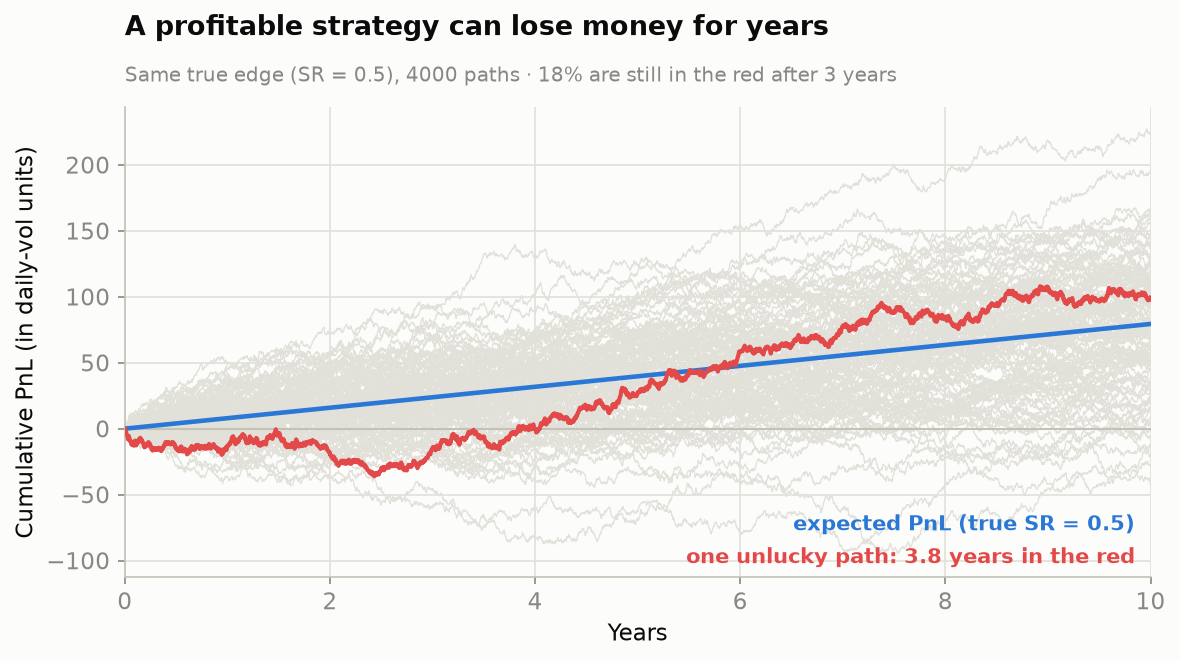
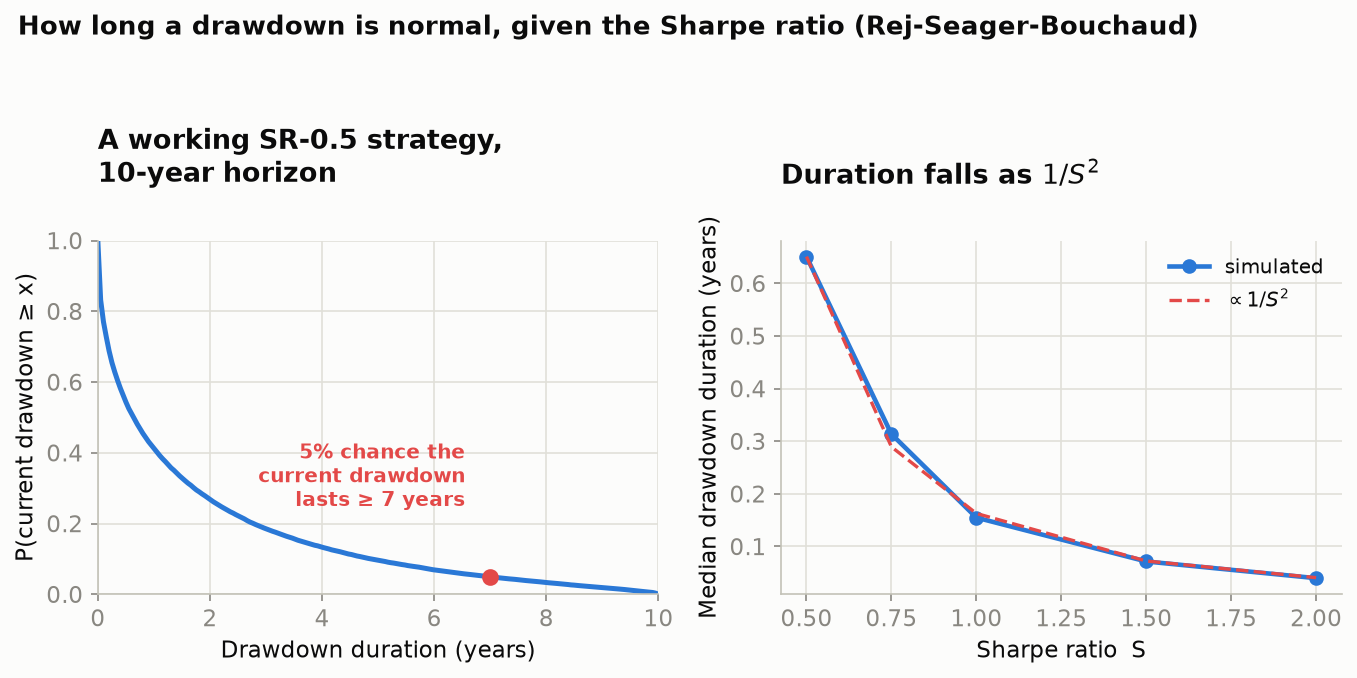
Correct the drawdown section of the report to match Bouchaud
The paper (Rej, Seager & Bouchaud) analyzes drawdown DEPTH and DURATION under a
drifting random walk with sigma normalized to 1 (so Sharpe = drift), not the
realized-Sharpe distribution. Rewrite "Illusion #2" around the two scaling laws
(depth ~ 1/S, duration ~ 1/S^2), distinguish the current drawdown (Bouchaud)
from the maximum drawdown (Magdon-Ismail), and connect 1/S^2 to the sqrt(T) wall.

Replace fig2 with a faithful figure: the survival curve of the current-drawdown
duration for SR=0.5 over 10 years (reproducing the paper's 5%-chance-of-7-years
result exactly from our library) and the 1/S^2 collapse. Update the LinkedIn post
and hook to match.

Claude-Session: https://claude.ai/code/session_01PZLxBWFPa4ExLp5ARSV6s1

diff --git a/scripts/make_figures.py b/scripts/make_figures.py
@@ -104,49 +104,69 @@ def fig1_illusion(rng):
     return frac_over_1
 
 
+def _current_drawdown_age_days(pnl):
+    """Age of the ongoing drawdown at the final step: T - last time at a new high."""
+    run_max = np.maximum.accumulate(pnl, axis=1)
+    at_high = pnl >= run_max - 1e-12
+    n = pnl.shape[1]
+    last_high = np.where(at_high, np.arange(n), -1).max(axis=1)
+    return (n - 1) - last_high
+
+
 def fig2_drawdown(rng):
-    """A genuinely profitable strategy can stay underwater for years."""
-    years = 10
-    horizon = PPY * years
-    n_paths = 4000
-    sr_true = 0.5
-    r = simulation.simulate_returns(sr_true, horizon, n_paths, rng=rng)
-    pnl = simulation.cumulative_pnl(r)
-    t = np.arange(1, horizon + 1) / PPY
+    """Bouchaud: how long and deep a drawdown is *normal* for a given Sharpe.
 
-    fig, ax = plt.subplots(figsize=(8, 4.6))
-    # background cloud of sample paths
-    for i in range(0, 120):
-        ax.plot(t, pnl[i], color=GRID, lw=0.6, zorder=1)
-    # theoretical drift
-    drift = sr_true / np.sqrt(PPY) * np.arange(1, horizon + 1)
-    ax.plot(t, drift, color=BLUE, lw=2.2, zorder=3, label="expected PnL")
-    # highlight a genuinely-positive path that stays negative for years
-    underwater_len = np.array(
-        [np.argmax(pnl[i] > 0) if np.any(pnl[i] > 0) else horizon for i in range(500)]
+    Left: survival curve of the current drawdown's duration (SR = 0.5, 10 years).
+    Right: the duration ~ 1/S^2 scaling law collapses onto a constant when scaled.
+    """
+    # --- left panel: duration distribution for SR = 0.5 over 10 years -------
+    horizon = PPY * 10
+    pnl = simulation.cumulative_pnl(
+        simulation.simulate_returns(0.5, horizon, 40_000, rng=rng)
     )
-    worst = int(np.argmax(underwater_len))
-    years_neg = underwater_len[worst] / PPY
-    ax.plot(t, pnl[worst], color=RED, lw=2.0, zorder=4)
-    ax.axhline(0, color=BASELINE, lw=1.0)
-    ax.text(0.985, 0.10, "expected PnL (true SR = 0.5)", transform=ax.transAxes,
-            color=BLUE, ha="right", fontsize=10, fontweight="bold")
-    ax.text(0.985, 0.03, f"one unlucky path: {years_neg:.1f} years in the red",
-            transform=ax.transAxes, color=RED, ha="right", fontsize=10,
-            fontweight="bold")
+    age_yr = _current_drawdown_age_days(pnl) / PPY
+    grid = np.linspace(0, 10, 200)
+    survival = np.array([(age_yr >= g).mean() for g in grid])
+    p7 = float((age_yr >= 7).mean())
 
-    frac_neg_3y = float(np.mean(pnl[:, PPY * 3 - 1] < 0))
-    _title(
-        ax,
-        "A profitable strategy can lose money for years",
-        f"Same true edge (SR = 0.5), 4000 paths · {frac_neg_3y:.0%} are still in the "
-        "red after 3 years",
+    fig, axes = plt.subplots(1, 2, figsize=(9.2, 4.4))
+    ax = axes[0]
+    ax.plot(grid, survival, color=BLUE, lw=2.4)
+    ax.plot([7], [p7], "o", color=RED, ms=7, zorder=5)
+    ax.annotate(f"{p7:.0%} chance the\ncurrent drawdown\nlasts ≥ 7 years",
+                (7, p7), textcoords="offset points", xytext=(-12, 34),
+                ha="right", color=RED, fontsize=9.5, fontweight="bold")
+    ax.set_xlabel("Drawdown duration (years)")
+    ax.set_ylabel("P(current drawdown ≥ x)")
+    ax.set_xlim(0, 10)
+    ax.set_ylim(0, 1)
+    _title(ax, "A working SR-0.5 strategy,\n10-year horizon", None)
+
+    # --- right panel: duration ~ 1/S^2 scaling ------------------------------
+    long_h = PPY * 40
+    s_grid = [0.5, 0.75, 1.0, 1.5, 2.0]
+    med_dur = []
+    for s in s_grid:
+        p = simulation.cumulative_pnl(
+            simulation.simulate_returns(s, long_h, 4000, rng=rng)
+        )
+        med_dur.append(np.median(_current_drawdown_age_days(p)) / PPY)
+    med_dur = np.array(med_dur)
+    ax = axes[1]
+    ax.plot(s_grid, med_dur, "o-", color=BLUE, lw=2.2, ms=6, label="simulated")
+    ref = med_dur[0] * (s_grid[0] ** 2) / np.array(s_grid) ** 2
+    ax.plot(s_grid, ref, color=RED, lw=1.6, ls="--", label="$\\propto 1/S^2$")
+    ax.set_xlabel("Sharpe ratio  S")
+    ax.set_ylabel("Median drawdown duration (years)")
+    ax.legend(frameon=False, fontsize=9.5)
+    _title(ax, "Duration falls as $1/S^2$", None)
+
+    fig.suptitle(
+        "How long a drawdown is normal, given the Sharpe ratio (Rej-Seager-Bouchaud)",
+        x=0.02, ha="left", fontsize=12.5, fontweight="bold", y=1.02,
     )
-    ax.set_xlabel("Years")
-    ax.set_ylabel("Cumulative PnL (in daily-vol units)")
-    ax.set_xlim(0, years)
     _save(fig, "fig2_drawdown.png")
-    return frac_neg_3y, years_neg
+    return p7, med_dur[0] * s_grid[0] ** 2
 
 
 def fig3_mintrl():
@@ -220,8 +240,8 @@ def main():
     f4 = fig4_overfitting(rng)
     print("\n--- headline numbers for the article ---")
     print(f"zero-edge paths above SR=1 in one year: {f1:.1%}")
-    print(f"good strategies still in the red after 3 years: {f2[0]:.1%}")
-    print(f"longest red streak in sample: {f2[1]:.1f} years")
+    print(f"P(current drawdown >= 7yr) at SR=0.5, 10yr: {f2[0]:.1%}")
+    print(f"duration x S^2 (approx constant): {f2[1]:.2f}")
     print(f"years to trust SR: {f3}")
     print(f"best-of-N zero-edge SR: {f4}")
 

diff --git a/docs/report/substack-article.md b/docs/report/substack-article.md
@@ -1,6 +1,6 @@
 # The Sharpe Ratio Illusion
 
-### A coin-flip strategy can walk in with a Sharpe of 2. A genuinely great one can lose money for four years straight. It's the same fact, seen from two sides.
+### A coin-flip strategy can walk in with a Sharpe of 2. A genuinely great one can sit in a drawdown for seven years. It's the same fact, seen from two sides.
 
 ---
 
@@ -42,24 +42,38 @@ threshold that gets a manager hired. Plenty clear 2. Nothing is wrong with them;
 just got a good year. Point at any single strategy on the right-hand side of this chart
 and you cannot say whether it has an edge or a tailwind.
 
-## Illusion #2 — a great strategy that bleeds for years
+## Illusion #2 — a great strategy that stays in the hole for years
 
-Now the mirror image. Take a genuinely good strategy — true Sharpe 0.5, a number most
-funds would love — and simply watch its cumulative PnL.
+Now the mirror image, and this one has an exact theory behind it. Rej, Seager and
+Bouchaud at Capital Fund Management asked the question every manager in a losing streak
+is really asking — *"You are in a drawdown; when should you start worrying?"* — and
+answered it with the exact distributions for the **depth** and **duration** of a
+drawdown under a given Sharpe ratio.
 
-![Cumulative PnL of many true-SR-0.5 paths; the expected line rises steadily but individual paths spend years below zero](figures/fig2_drawdown.png)
+Model the PnL as a drifting random walk and normalize the volatility to 1, so the drift
+*is* the Sharpe ratio (`S = μ`). Two clean scaling laws fall out:
 
-The straight blue line is the edge doing its work in expectation. The individual paths
-are what a real investor actually experiences, and they are a mess. **18% of these
-genuinely-profitable strategies are still underwater three years in.** The highlighted
-path is a strategy with a *real, positive edge* that spends **nearly four years in the
-red** before it pays off. In the real world it gets redeemed at year two and the edge is
-never collected.
+- a typical drawdown's **depth** scales as **`1/S`**,
+- its **duration** scales as **`1/S²`**.
 
-This is the result Jean-Philippe Bouchaud and colleagues at Capital Fund Management made
-precise in *"You are in a drawdown — when should you start worrying?"*: for realistic
-Sharpe ratios, multi-year losing streaks are not a malfunction, they are the **expected
-behavior**. A long drawdown is not, by itself, evidence that anything broke.
+The duration is the brutal one: it goes as the *inverse square* of the Sharpe. Halve the
+Sharpe and you don't double the expected time in the hole — you **quadruple** it. This
+is the real reason drawdowns feel interminable, and it is why both managers and
+investors chronically underestimate them.
+
+![Left: survival curve of the current drawdown's duration for a true-SR-0.5 strategy over 10 years, with a 5% chance of lasting 7+ years. Right: median drawdown duration falling as 1/S-squared.](figures/fig2_drawdown.png)
+
+Put numbers on it. For a genuinely good strategy — true Sharpe 0.5 — watched over 10
+years, our simulation reproduces the paper's headline result exactly: **there is a 5%
+chance the drawdown you are currently sitting in has already lasted 7 years or more.**
+Seven years, with a real, positive edge, and nothing broken. In the real world that book
+is closed at year two and the edge is never collected.
+
+*(Two related but distinct objects are worth separating. Bouchaud studies the* current
+*drawdown — how long the hole you're in right now is likely to be. A different classic
+result, Magdon-Ismail et al. (2004), gives the expected* maximum *drawdown over a whole
+horizon; that one is also in the repo as a closed form. This piece uses the current-
+drawdown view because it matches the question a manager actually asks.)*
 
 ## Why both happen: the √T wall
 
@@ -72,6 +86,12 @@ The edge (`SR`) is fixed by the strategy. The only way to accumulate statistical
 confidence is to accumulate **time**, and it comes in as a *square root*. To double your
 certainty you need four times the data. The estimation error around a Sharpe ratio
 shrinks only as `1/√T`, which is agonizingly slow.
+
+The same tension explains Bouchaud's `1/S²`. The edge adds up in proportion to `S·T`,
+while the random swings grow only as `√T`. The edge doesn't reliably dominate the noise
+until `S·T ≳ √T`, i.e. until `T ≳ 1/S²` — which is exactly the timescale of a typical
+drawdown. Estimation error and drawdown duration are two faces of the same race between
+signal and noise.
 
 ## So how long *do* you need?
 

diff --git a/docs/report/linkedin-post.md b/docs/report/linkedin-post.md
@@ -6,8 +6,8 @@
 
 ---
 
-A coin-flip strategy can post a Sharpe ratio of 2. A genuinely great strategy can lose
-money for four years straight.
+A coin-flip strategy can post a Sharpe ratio of 2. A genuinely great strategy can sit in
+a drawdown for seven years.
 
 It's the same fact, seen from two sides — and it's why the number the whole industry
 hires and fires on is quieter than it looks.
@@ -20,9 +20,9 @@ Three things fell out:
 → Over a single year, 1 in 6 strategies with **zero real edge** post a Sharpe above 1.0 —
 the "hire me" line. You cannot tell them from the real thing.
 
-→ A genuinely profitable strategy (true Sharpe 0.5) is still underwater 3 years in 18% of
-the time. Multi-year losing streaks aren't a malfunction; they're the *expected* behavior
-(as Bouchaud & CFM showed).
+→ A genuinely profitable strategy (true Sharpe 0.5) has a 5% chance its *current* drawdown
+has already lasted 7+ years. Rej, Seager & Bouchaud (CFM) derived why: drawdown duration
+scales as 1/S² — halve the Sharpe and you quadruple the expected time in the hole.
 
 → It's worse when you search. Trying 1,000 strategy variants with **zero edge** hands you
 a best-of-batch Sharpe above 2 — from pure noise. This is the backtest-overfitting trap
